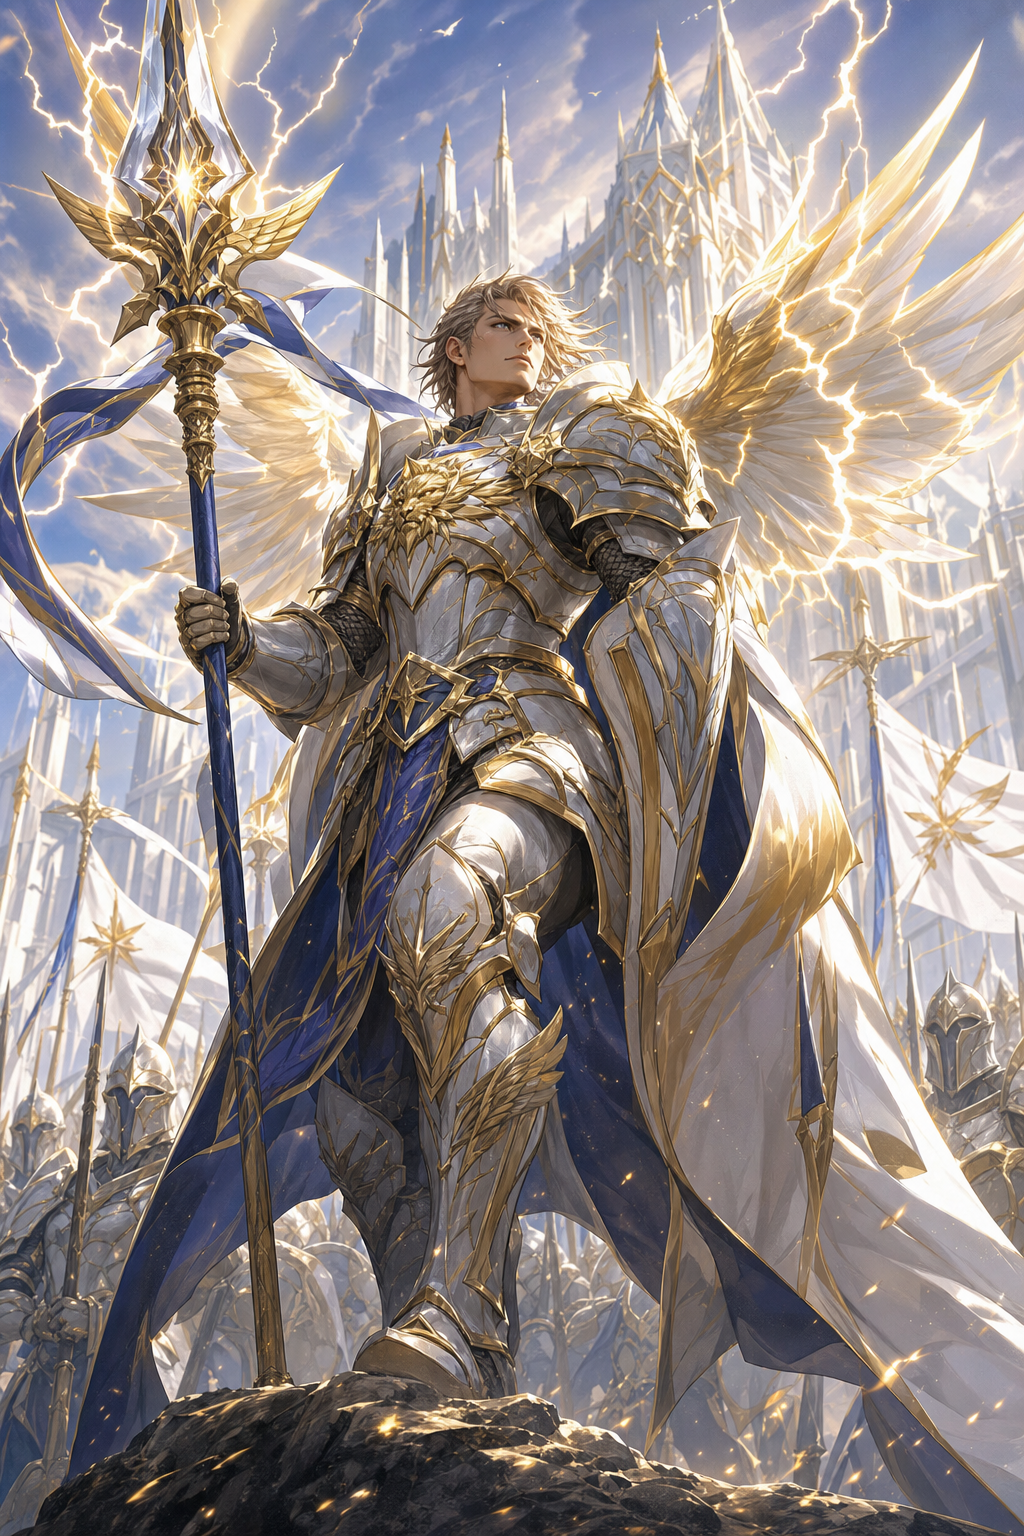
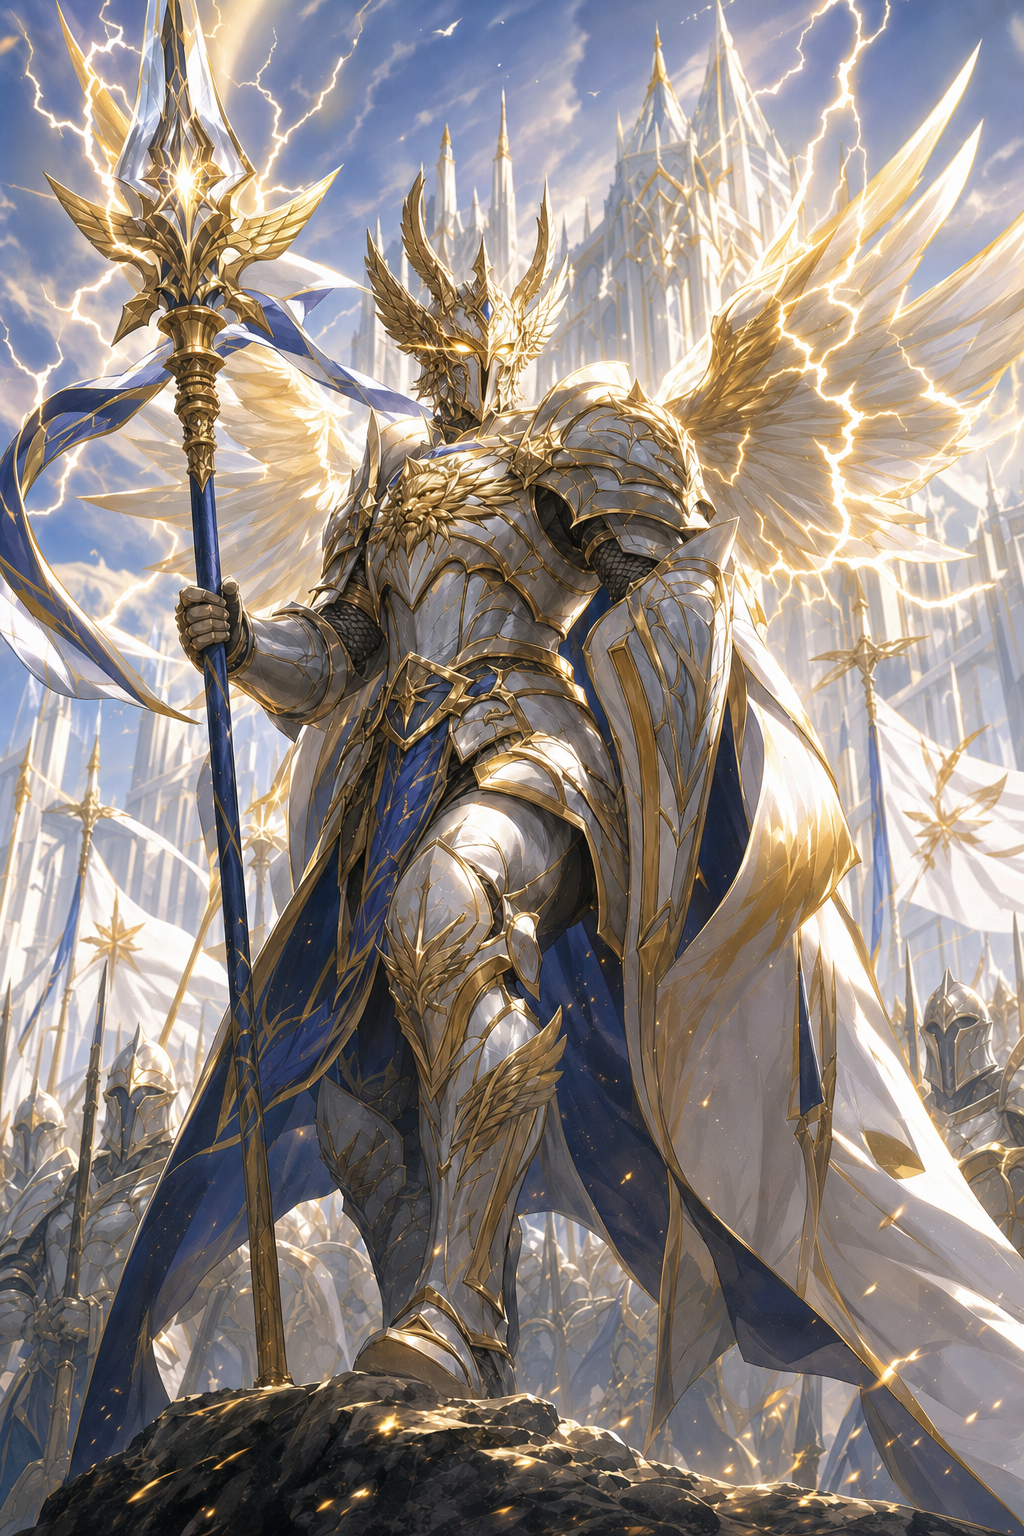
Polish light art and mana flow

diff --git a/app/app.js b/app/app.js
@@ -306,7 +306,11 @@ async function handleBattlefieldClick(event) {
     putMana(HUMAN, uidValue);
   }
   if (action === "play") {
-    playCard(HUMAN, uidValue);
+    if (phase() === "マナ" && !state.manaPlaced) {
+      state.manaPlaced = true;
+      state.phaseIndex = 1;
+    }
+    await playCard(HUMAN, uidValue);
   }
   if (action === "select-attacker") {
     if (phase() === "メイン") {
@@ -1611,7 +1615,8 @@ function shortCardName(name) {
 
 function renderCard(card, playerIndex, zone) {
   const humanTurn = canHumanAct() && !state.pendingPayment && playerIndex === HUMAN;
-  const playable = humanTurn && zone === "hand" && phase() === "メイン" && canPayCost(state.players[HUMAN], card);
+  const canPlayFromCurrentPhase = phase() === "メイン" || (phase() === "マナ" && !state.manaPlaced);
+  const playable = humanTurn && zone === "hand" && canPlayFromCurrentPhase && canPayCost(state.players[HUMAN], card);
   const canMana = humanTurn && zone === "hand" && phase() === "マナ" && !state.manaPlaced;
   const canAttack = humanTurn && zone === "battle" && canEnterAttackWith(card);
   const canDirectAttack = canAttack && phase() === "アタック";

diff --git a/docs/playtest-log.md b/docs/playtest-log.md
@@ -692,3 +692,16 @@
 - 対象は `焦熱の大牙`、`大樹の剛腕`、`静かな大渦`、`雷光の隊長`、`夜冠の重槌`。
 - 画像はカードIDに対応する `assets/cards/<ID>.png` に保存する。
 - 画像があるカードだけ、カード上部にアート枠を表示する。
+
+### テスト 2026-07-02 追記38
+
+重要だった場面:
+
+- `雷光の隊長` の絵は人間味が強く、他文明の代表カードに比べて少しカードゲーム上の象徴性が弱かった。
+- マナフェーズでマナチャージをしない時、毎回マナパスを押してから召喚/詠唱するのが手間だった。
+
+決めたこと:
+
+- `雷光の隊長` のアートを、顔が見えない仮面/兜の隊長へ差し替える。
+- マナフェーズでも、支払えるカードは召喚/詠唱ボタンを押せるようにする。
+- マナフェーズで召喚/詠唱した場合は、その時点でマナパスした扱いにしてメインフェーズへ移る。
